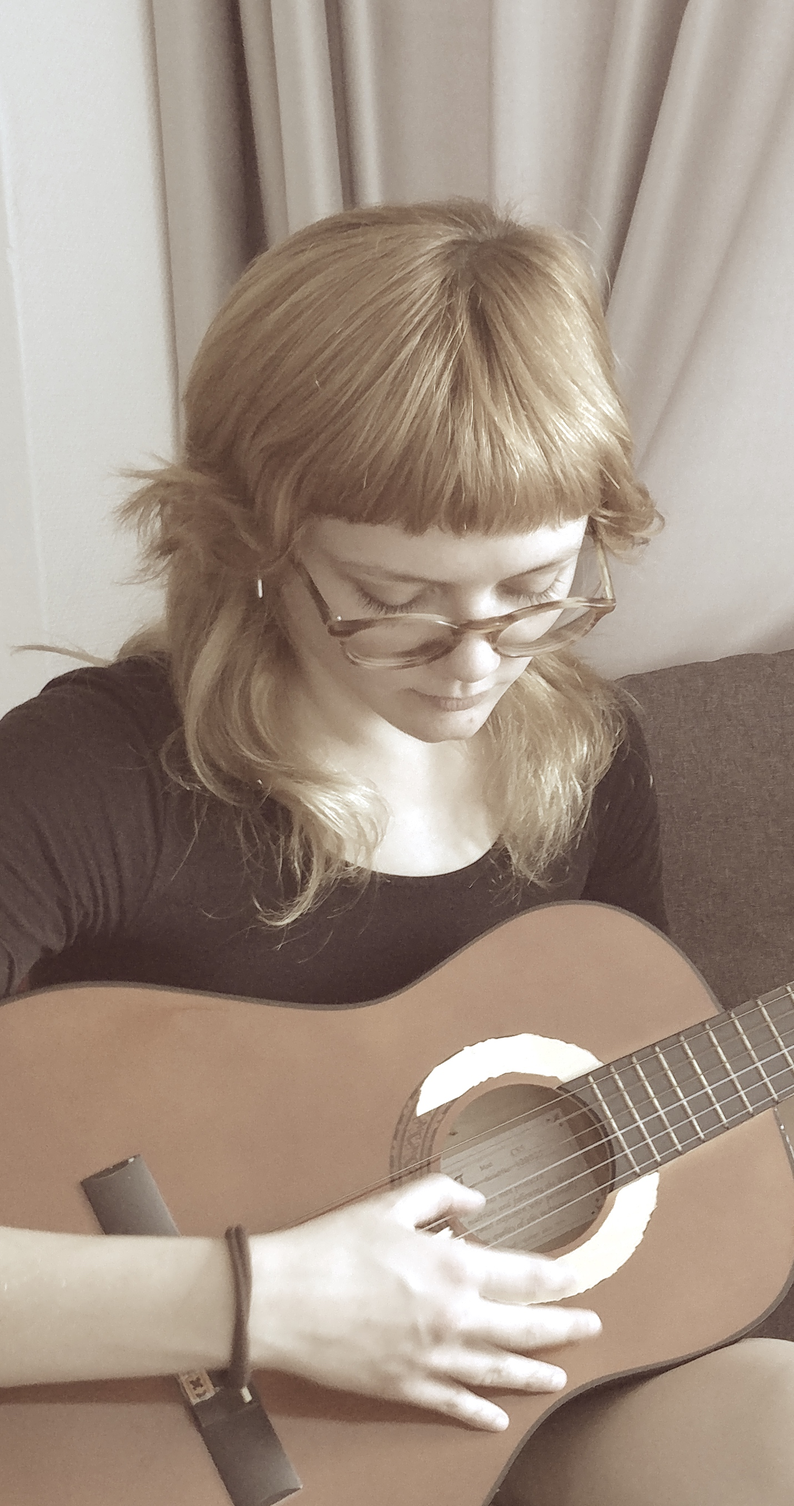
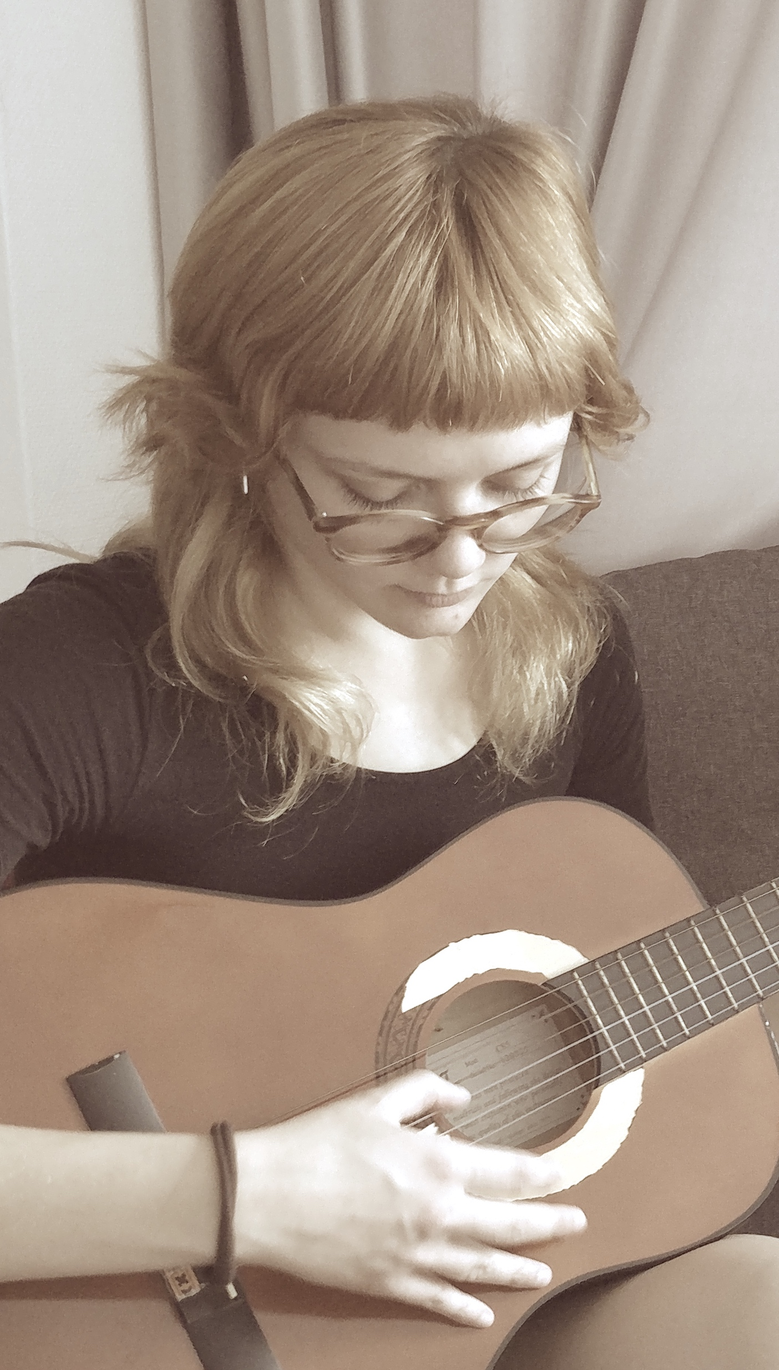
final change film

diff --git a/art/templates/art/film_content.html b/art/templates/art/film_content.html
@@ -15,12 +15,12 @@
 
 							<h1>Nice To Meet You</h1>
 							<p> > A Short Film</p>
-							<p class="major">The pandemic has changed so many aspects of our lives. Many suffer from social anxiety after the society opens up again. It can be difficult for some to adapt to the lifestyle in the past. One can find it hard to dress up formally as before and tell jokes in the office. Some may find it hard to be on time even taking the same trains as before the pandemic. Sometimes we forgot when was the last time we shake each other's hand while looking into the eyes.  </p>
-							<p class="major"><i>Nice to meet you</i> is a short documentary-like story about Nina. She is a student who suffers from lonliness, procrastination, social anxiety, and the lack of confidence and motivation to face the mess after the pandemic. For a group assignemnt, she teamed up with Wang, but both did almost nothing until the last few days. They decided to meet on campus to prevent an empty submission. She finds it difficult to pick up the old routine: get up on time, make the right coffee, brush the eyelashes skillfully, and nearly left her keys on the table. She was not sure if wearing a mask in public transportation is still required. While in the metro, she was very sensitive to the sound of cough. After a long time not coming to the university, her memory about the buildings faded away and she hesitated about the directions as she rushes to the meeting.</p>
-						<p class="major">While Nina is a fictional character, many of us could face similar issues at different levels. The goal of this film is to encourage everyone to regain social interactions and enjoy being together in person after the pandemic. </p>
-							<p class="major">The film is a candidate of the 72 Hour VU Film Challenge. The premiere of the film will be at the Rialto VU cinema from 7PM on 30th June, 2022. </p>
+							<p class="majorjustify">The pandemic has changed so many aspects of our lives. Many suffer from social anxiety after the society opens up again. It can be difficult for some to regain their lifestyle before the pandemic. For example, one can find it difficult to come to work or tell jokes in the office as before. Some may find it hard to be on time for appointments. Do you still remember when was the last time you shake someone's hand and look into his/her eyes and say 'Nice to meet you' ?  </p>
+							<p class="majorjustify"><i>Nice to meet you</i> is a short documentary-like story about Nina. She is a student who suffers from lonliness, procrastination, social anxiety, and the lack of confidence and motivation. For a group assignemnt, she teamed up with Wang, but both did almost nothing until the last few days. They decided to meet on campus to prevent an empty submission. However, she found it difficult to pick up the old routine: getting up on time, making the right coffee, brushing the eyelashes skillfully, etc. She was not sure if wearing a mask in public transportation is still required. While in the metro, she was very sensitive to the sound of cough. After a long time not coming to the university, her memory about the buildings faded away and she hesitated about the directions as she rushed to the meeting.</p>
+						<p class="majorjustify">While Nina is a fictional character, many of us could relate to her issues at various levels. The goal of this film is to encourage everyone to regain the courage for social interactions and enjoy being together in person after the pandemic. </p>
+							<p class="majorjustify">The film is a candidate of the <b>72 Hour VU Film Challenge</b>. The premiere of the film will be at the Rialto VU cinema from 7PM on 30th June, 2022. </p>
 							<ul class="actions vertical">
-								<li><a href="https://www.eventbrite.com/e/premiere-night-72-hour-vu-film-challenge-tickets-355339990477" class="button big wide smooth-scroll-middle">Get Ticket</a></li>
+								<li><a href="https://www.eventbrite.com/e/premiere-night-72-hour-vu-film-challenge-tickets-355339990477" class="button big wide smooth-scroll-middle"><b>Get Ticket</b></a></li>
 							</ul>
 						</div>
 						<div class="image" >
@@ -44,8 +44,8 @@
 									<section class="spotlight style2 orient-right content-align-left image-position-center onscroll-image-fade-in">
 										<div class="content">
 											<h2>Costanza Spadafora (as Nina)</h2>
-											<p>She played a student called Nina who suffers from post-pandemic social anxiety. She successfully captured the subtel transfer of emotions as the plot moves towards a brighter ending. </p>
-											<p>Costanza is the co-director and the main actress of this short film. Constanze has contributed also to the scenes, props, dialogues, editing, etc. Most importantly, she selected all the three pieces of music (and played the first one), which matches the mood and the scenes perfectly!</p>
+											<p>Costanza played a student called Nina who suffers from post-pandemic social anxiety. She successfully captured the subtel change of emotions and demonstrated how Nina transformed from lacking of confidence to enjoying social interaction again. </p>
+											<p>Costanza is the co-director and the main actress of this short film. To best match the mood and the scenes, she selected all the three pieces of music and played the first one. In addition, she has contributed to the scenes, props, dialogues, editing, etc.</p>
 											<p>Costanza is a final-year master student of Psychology at the Vrije Universiteit Amsterdam.</p>
 										</div>
 										<div class="image">
@@ -57,8 +57,8 @@
 										<section class="spotlight style2 orient-left content-align-left image-position-center onscroll-image-fade-in">
 											<div class="content">
 												<h2>Shuai Wang (as Wang)</h2>
-												<p>Shuai is the co-director and the cameraman of this short film. He also played the role of a screenwriter and lighting designer. He was also in charge of editing and the final submission for the competition. </p>
-												<p>He played the teammate of Nina, a character that brought up the idea to meet and reduces her social anxiety by good team-working and friendly attitude. </p>
+												<p>Shuai is the co-director and the cameraman of this short film. He was also the screenwriter and the lighting designer. He was in charge of editing and the final submission for the competition. </p>
+												<p>He played the teammate of Nina, a character that brought up the idea to meet. He reduced Nina's social anxiety by lively conversations. </p>
 												<p>Shuai is a Ph.D. student and a scientific engineer in the computer science department of the Vrije Universiteit Amterdam. </p>
 
 											</div>

diff --git a/art/static/assets2/css/main.css b/art/static/assets2/css/main.css
@@ -1821,6 +1821,21 @@
 			font-size: 1.1rem;
 		}
 
+		p.majorjustify {
+			word-break: break-all;
+			font-size: 1.1rem;
+			text-align: justify;
+			text-justify: inter-word;
+
+		}
+
+
+		p.majorjustify > span {
+
+			display: inline-block;
+			padding-left: 100%;
+		}
+
 		h1 {
 			font-size: 2.5rem;
 		}
